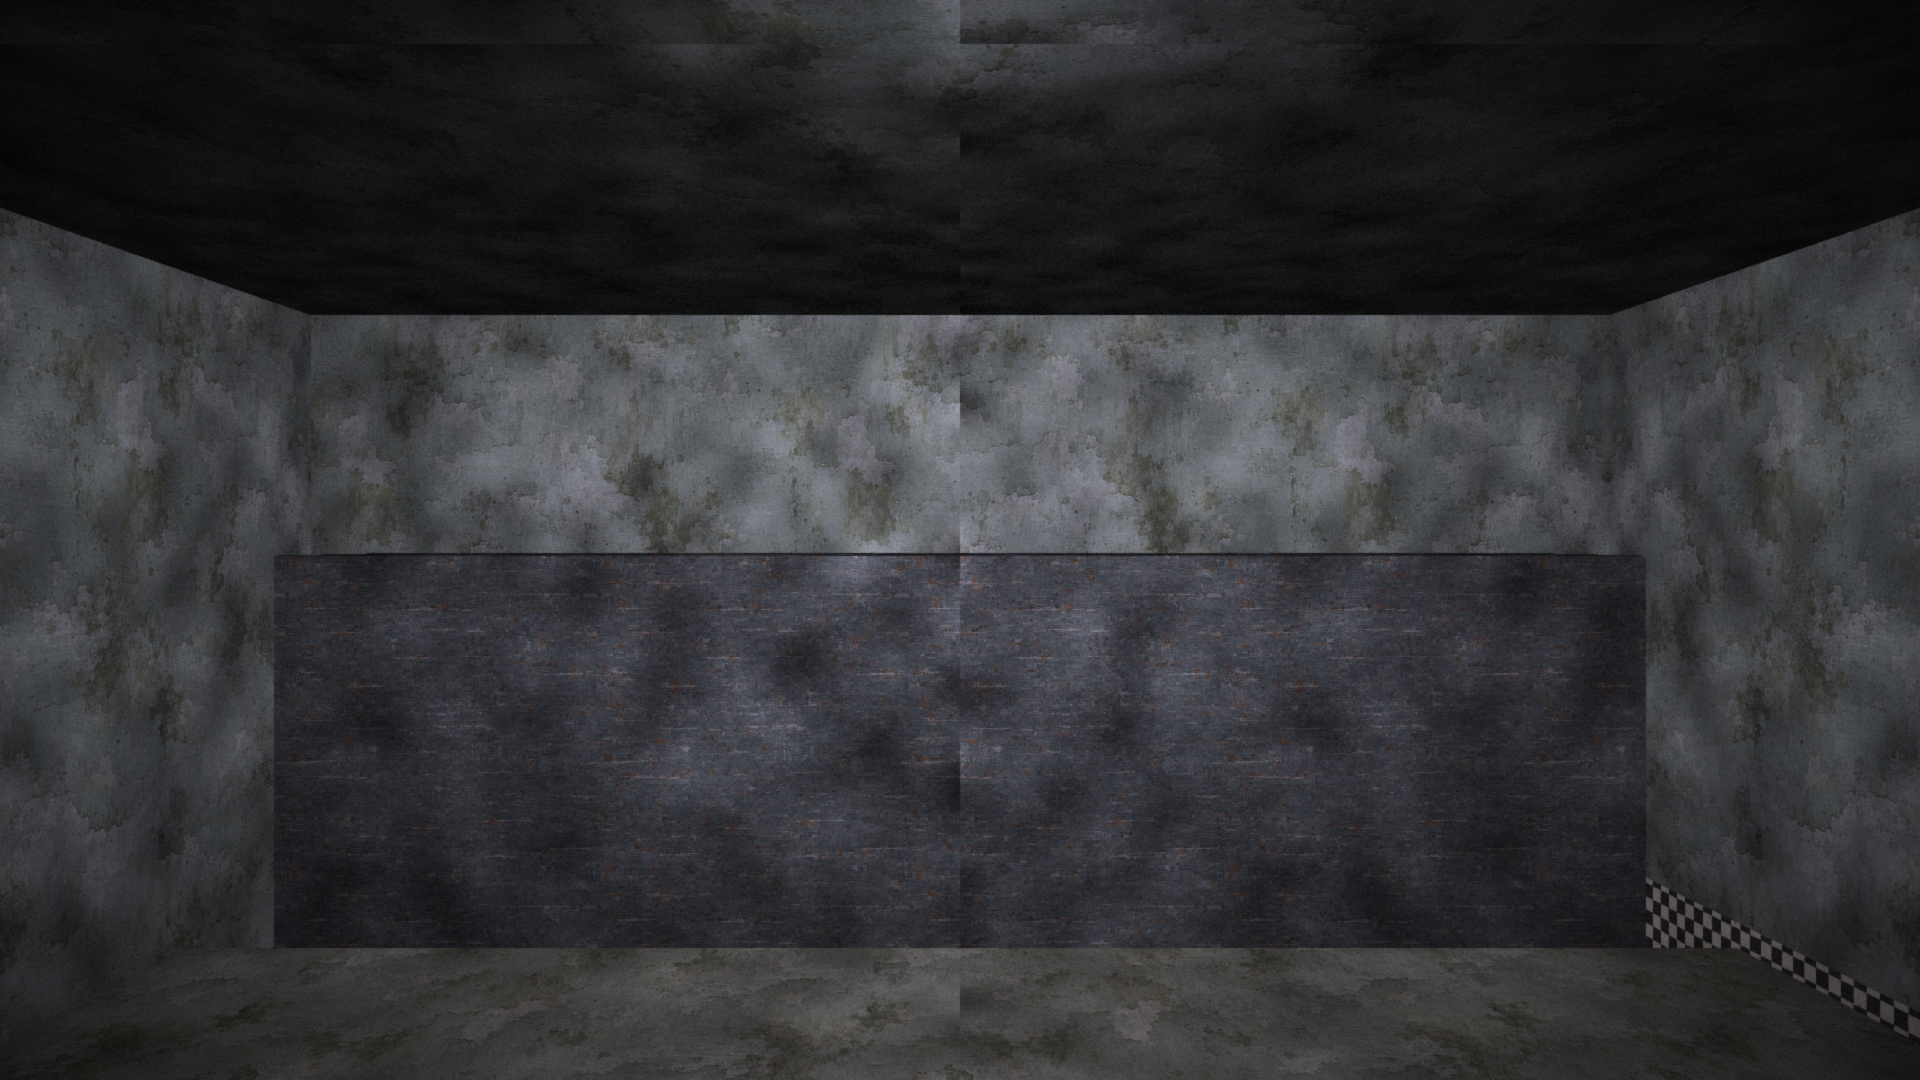
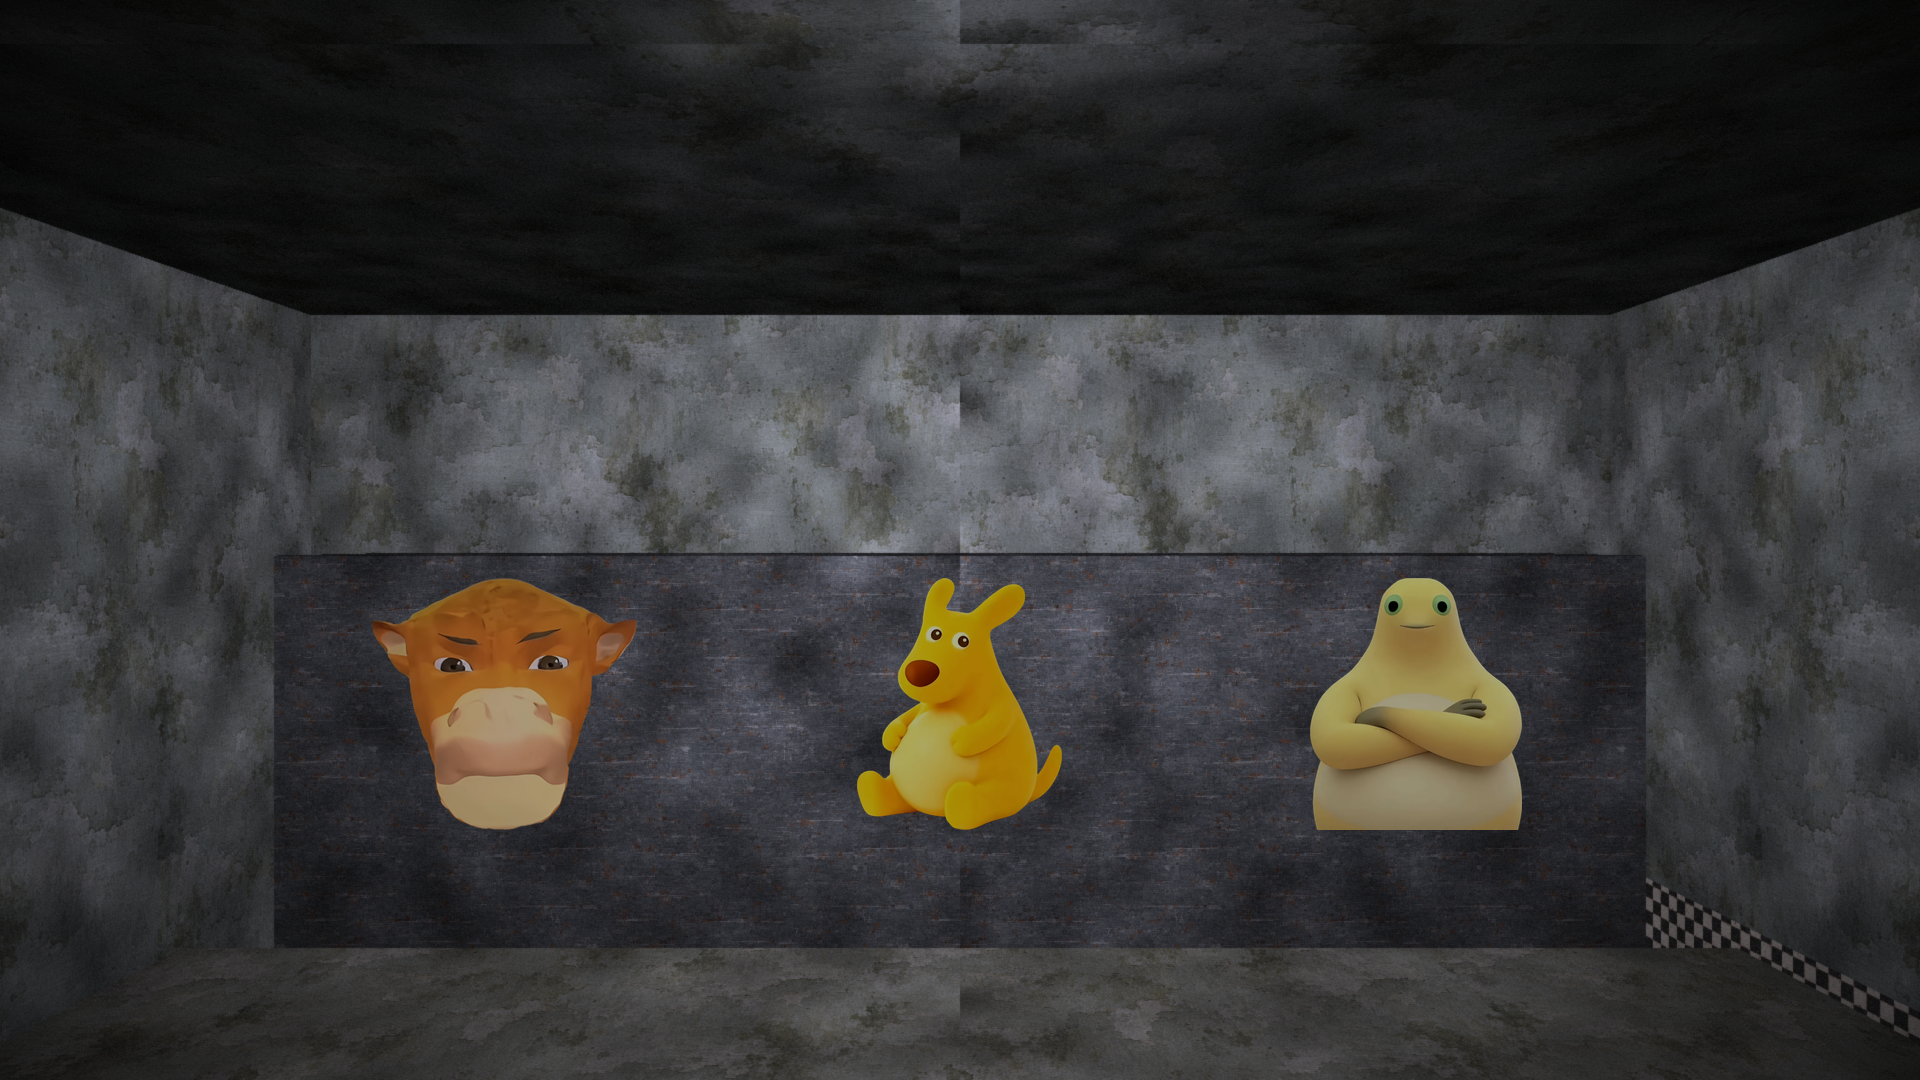
舞台保留敌人待命 + 监控支持同机位多角色 + 房间补内容
绿子：「是有点空。另外没有行动或者进攻失败的敌人会复活在舞台上」，
澄清后是「舞台不要空」—— 舞台本来就该站着玩偶。第一版理解反了（把舞台从路径里删掉），已改回。

- 路径起点恢复 0（1A 舞台）：没出动/被挡回的敌人回舞台待命
  袋鼠 {0,1,5,3,4}、牛来 {0,1,10,6,7}
- 监控角色从单 Image 改成 3 槽位：同一机位可以站多个（舞台上的袋鼠 + 牛来），
  横排摆开（1 个居中 / 2 个 ±130 / 3 个 ±230）。原来单槽位只画第一个
- 「空」的改善：5 后台架子上加三个玩偶头套（立绘贴片）、2B/4B 加柜子和纸箱、
  3 储藏室加纸箱水桶、1B 长桌往房间深处挪、墙上画提亮 0.52 → 0.68

压暗踩坑：试过统一 dark*0.92，1B/7 几乎全黑，已撤销。

Changed region(s): [[0.6562, 0.5194, 0.8125, 0.7944], [0.1875, 0.5194, 0.3438, 0.7639], [0.4375, 0.5194, 0.5625, 0.7639]]

diff --git a/Assets/Scripts/UI/PrototypeScene.cs b/Assets/Scripts/UI/PrototypeScene.cs
@@ -439,7 +439,12 @@ namespace NailongFNAF.UI
         private Image _flashlightGlow;
         private float _flashlightGlowAlpha;
         private Image _monitorOverlay;
-        private Image _monitorCharacter;
+        /// <summary>
+        /// 监控画面里叠的敌人立绘槽位（最多三个）。
+        /// 同一机位可能站着不止一个（比如舞台上的袋鼠 + 牛来），
+        /// 所以用数组横排，而不是单个 Image。
+        /// </summary>
+        private Image[] _monitorCharacters;
         private CanvasGroup _monitorMapGroup;
         private Text _monitorLabel;
         private Image[] _camBoxes;
@@ -1164,7 +1169,24 @@ namespace NailongFNAF.UI
                 _enemySideRight.gameObject.SetActive(false);
             }
 
-            _monitorCharacter.gameObject.SetActive(false);
+            HideMonitorCharacters();
+        }
+
+        /// <summary>把所有监控角色槽位收起来。</summary>
+        private void HideMonitorCharacters()
+        {
+            if (_monitorCharacters == null)
+            {
+                return;
+            }
+
+            foreach (var img in _monitorCharacters)
+            {
+                if (img != null)
+                {
+                    img.gameObject.SetActive(false);
+                }
+            }
         }
 
         /// <summary>
@@ -1320,7 +1342,7 @@ namespace NailongFNAF.UI
                 _monitorOverlay.sprite = _solidSprite;
                 _monitorOverlay.color = Color.black;
                 _monitorLabel.text = CameraName(index) + "    (AUDIO ONLY)";
-                _monitorCharacter.gameObject.SetActive(false);
+                HideMonitorCharacters();
                 UpdateCameraBoxes(index);
                 return;
             }
@@ -1351,33 +1373,36 @@ namespace NailongFNAF.UI
         }
 
         /// <summary>
-        /// 监控画面里叠谁。同一机位最多只会画一个：奶龙优先（它蹲在机位偷电，正对镜头所以用 stare），
-        /// 其次袋鼠、牛来（照 FNAF 1，邦尼/奇卡沿机位路径逐房间推进，在监控里是站姿）。
-        /// **敌人一离开机位就拍不到它了** —— 尤其站到门口后它不再是「蹲机位」的状态，
-        /// 属于门口的威胁，玩家得转头看门灯、而不是在监控里找它。
+        /// 监控画面里叠谁。**同一机位可以站多个**（FNAF 1 的舞台上就有三只），
+        /// 横排摆开；只有一个时居中。
+        ///
+        /// 奶龙的贴图按状态分：偷电态 stare（正对镜头）、进攻态 idle（侧身）。
+        /// 袋鼠 / 牛来照 FNAF 1 沿机位路径推进，在监控里是站姿。
+        /// **敌人站到门口后就拍不到它了** —— 那时它是门口的威胁，得转头看门灯。
         /// </summary>
         private void ApplyMonitorCharacter(GameManager gm)
         {
-            if (_enemyDirector == null)
+            if (_enemyDirector == null || _monitorCharacters == null)
             {
-                _monitorCharacter.gameObject.SetActive(false);
                 return;
             }
 
             int cam = gm.CurrentCameraIndex;
 
-            // 奶龙优先 —— **两个状态用不同贴图**（绿子 2026-10-17 要求）：
-            //   偷电态：stare（正对镜头，它蹲在机位上盯着你偷电）
-            //   进攻态：idle（侧身站着，跟袋鼠/牛来在机位上一样）
+            // 收集这一机位上能拍到的敌人（最多三个槽位）
+            var ids = new EnemyId[_monitorCharacters.Length];
+            var poses = new CharacterPose[_monitorCharacters.Length];
+            int count = 0;
+
             var nailong = _enemyDirector.GetBrain(EnemyId.Nailong) as NailongBrain;
             if (nailong != null && !nailong.IsAttacking
                 && nailong.Stage < nailong.MaxStage
-                && nailong.CameraIndex == cam)
+                && nailong.CameraIndex == cam
+                && count < ids.Length)
             {
-                var pose = nailong.IsApproaching ? CharacterPose.Idle : CharacterPose.Stare;
-                ShowCharacter(_monitorCharacter, EnemyId.Nailong, pose,
-                    MonitorCharacterHeight);
-                return;
+                ids[count] = EnemyId.Nailong;
+                poses[count] = nailong.IsApproaching ? CharacterPose.Idle : CharacterPose.Stare;
+                count++;
             }
 
             // 门类敌人（袋鼠 / 牛来）：停在某个机位时才现形
@@ -1389,16 +1414,34 @@ namespace NailongFNAF.UI
                     continue;
                 }
 
-                if (door.PathCameraIndex == cam)
+                if (door.PathCameraIndex == cam && count < ids.Length)
                 {
-                    ShowCharacter(_monitorCharacter, door.Id, CharacterPose.Idle,
-                        MonitorCharacterHeight);
-                    return;
+                    ids[count] = door.Id;
+                    poses[count] = CharacterPose.Idle;
+                    count++;
                 }
             }
 
-            // 噜噜改走正门了，不再出现在任何机位里
-            _monitorCharacter.gameObject.SetActive(false);
+            // 横排摆开：一个居中，两个左右分开，三个均分
+            for (int i = 0; i < _monitorCharacters.Length; i++)
+            {
+                var img = _monitorCharacters[i];
+
+                if (i >= count)
+                {
+                    img.gameObject.SetActive(false);
+                    continue;
+                }
+
+                ShowCharacter(img, ids[i], poses[i], MonitorCharacterHeight);
+
+                float step = count <= 1 ? 0f : (count == 2 ? 260f : 230f);
+                float offsetX = (i - (count - 1) * 0.5f) * step;
+
+                var rect = img.rectTransform;
+                rect.anchoredPosition = new Vector2(offsetX, 46f);
+                rect.sizeDelta = new Vector2(260f, MonitorCharacterHeight);
+            }
         }
 
         private static string CameraName(int index)
@@ -2119,23 +2162,31 @@ namespace NailongFNAF.UI
                 TextAnchor.MiddleCenter, 46, new Color(0.72f, 0.86f, 0.72f));
             StretchToParent(_monitorLabel.rectTransform);
 
-            // 监控画面里的敌人立绘（奶龙蹲在机位里）
-            var charGo = new GameObject("MonitorCharacter", typeof(RectTransform), typeof(Image));
-            charGo.transform.SetParent(_monitorOverlay.transform, false);
+            // 监控画面里的敌人立绘 —— 三个槽位，同一机位可以站多个
+            _monitorCharacters = new Image[3];
 
-            var charRect = charGo.GetComponent<RectTransform>();
-            charRect.anchorMin = new Vector2(0.5f, 0f);
-            charRect.anchorMax = new Vector2(0.5f, 0f);
-            charRect.pivot = new Vector2(0.5f, 0f);
-            charRect.anchoredPosition = new Vector2(0f, 46f);
-            charRect.sizeDelta = new Vector2(260f, MonitorCharacterHeight);
+            for (int i = 0; i < _monitorCharacters.Length; i++)
+            {
+                var charGo = new GameObject("MonitorCharacter" + i,
+                    typeof(RectTransform), typeof(Image));
+                charGo.transform.SetParent(_monitorOverlay.transform, false);
 
-            _monitorCharacter = charGo.GetComponent<Image>();
-            _monitorCharacter.sprite = _solidSprite;
-            _monitorCharacter.preserveAspect = true;
-            _monitorCharacter.raycastTarget = false;
-            _monitorCharacter.color = Color.white;
-            charGo.SetActive(false);
+                var charRect = charGo.GetComponent<RectTransform>();
+                charRect.anchorMin = new Vector2(0.5f, 0f);
+                charRect.anchorMax = new Vector2(0.5f, 0f);
+                charRect.pivot = new Vector2(0.5f, 0f);
+                charRect.anchoredPosition = new Vector2(0f, 46f);
+                charRect.sizeDelta = new Vector2(260f, MonitorCharacterHeight);
+
+                var img = charGo.GetComponent<Image>();
+                img.sprite = _solidSprite;
+                img.preserveAspect = true;
+                img.raycastTarget = false;
+                img.color = Color.white;
+
+                _monitorCharacters[i] = img;
+                charGo.SetActive(false);
+            }
 
             // 小地图 —— 整张 FNAF 1 官方平面图，只有我们用得到的 3 间可点
             var map = new GameObject("MonitorMap", typeof(RectTransform), typeof(CanvasGroup), typeof(Image));

diff --git a/tools/render_monitor.py b/tools/render_monitor.py
@@ -50,6 +50,7 @@ CABINET_TINT = gpa.CABINET_TINT                          # 金属柜 / 架子
 FRAME_TINT = gpa.FRAME_TINT                              # 镜面 / 亮金属
 DOOR_TINT = np.array([0.26, 0.22, 0.20], np.float32)     # 转角那扇门
 MIRROR_TINT = np.array([0.62, 0.66, 0.74], np.float32)   # 镜子（比墙略亮，别过曝）
+CARTON_TINT = np.array([0.46, 0.36, 0.24], np.float32)   # 纸箱
 
 
 def box(bmin, bmax, default, faces=None, band=False):
@@ -165,15 +166,15 @@ def boxes_1b():
     parts = [
         box((-6.0, 0.0, -5.0), (6.0, 3.2, 5.0),
             ("wall", WALL, 2.4, 0.12), band=True),
-        # 长桌
-        box((-2.6, 0.0, -0.55), (2.6, 0.76, 0.55),
+        # 长桌（往房间深处挪 —— 贴着镜头摆会被透视压扁成一条边）
+        box((-2.6, 0.0, -2.05), (2.6, 0.76, -0.95),
             ("wall", DESK_TOP_TINT, 1.4, 0.10)),
     ]
 
     # 两侧椅子（座 + 靠背），简化的派对椅
-    for i, x in enumerate((-1.8, 0.0, 1.8)):
+    for x in (-1.8, 0.0, 1.8):
         for side in (-1.0, 1.0):
-            z0 = 0.55 if side > 0 else -0.55 - 0.5
+            z0 = -0.95 if side > 0 else -2.55
             parts.append(box((x - 0.24, 0.0, z0), (x + 0.24, 0.45, z0 + 0.5),
                              ("wall", CHAIR_TINT, 1.2, 0.08)))
             zb = z0 + (0.42 if side > 0 else 0.0)
@@ -208,6 +209,12 @@ def boxes_corner(sign=-1):
         # 通往办公室的那扇门（深色门板，贴在尽头墙上）
         box((-0.55, 0.0, -1.50), (0.55, 2.05, -1.45),
             ("metal", DOOR_TINT, 1.4, 0.10)),
+        # 墙角的柜子（别让转角只有一堵空墙）
+        box((-1.45, 0.0, -1.45), (-0.85, 1.30, -0.95),
+            ("metal", CABINET_TINT, 1.0, 0.12)),
+        # 地上的纸箱
+        box((0.85, 0.0, -1.40), (1.40, 0.62, -0.85),
+            ("paper", CARTON_TINT, 1.1, 0.14)),
     ]
 
 
@@ -226,6 +233,12 @@ def boxes_3():
         # 架子
         box((0.30, 0.0, -2.05), (1.25, 1.70, -1.30),
             ("metal", CABINET_TINT, 1.0, 0.14)),
+        # 架子上堆的纸箱
+        box((0.40, 1.70, -1.95), (0.95, 2.10, -1.45),
+            ("paper", CARTON_TINT, 1.1, 0.12)),
+        # 地上的水桶
+        box((-1.20, 0.0, -0.55), (-0.75, 0.50, -0.10),
+            ("metal", CABINET_TINT, 0.7, 0.10)),
     ]
 
 
@@ -364,8 +377,8 @@ def render_shot(name):
     else:
         gpa.DECALS = []
 
-    # 画别比墙亮太多（监控画面里纸不会发白光）
-    gpa.POSTER_GAIN = 0.52
+    # 画别比墙亮太多，但也不能暗到看不见
+    gpa.POSTER_GAIN = 0.68
 
     dirs = gpa.look_rays(cam, yaw)
     proj = lambda pt: gpa.project(pt, cam, yaw)
@@ -376,6 +389,13 @@ def render_shot(name):
 
     # ⚠ 舞台**不放静态角色** —— 监控里的敌人是运行时按位置叠上去的
     # （见 PrototypeScene.ApplyMonitorCharacter）。背景再画一遍就重复了。
+    # 但**后台架子上的玩偶头套是道具**，不是活敌人，可以画进背景。
+    if name == "5":
+        for x, code in ((-1.45, "nailong"), (0.0, "daishu"), (1.45, "niulai")):
+            img = paste_billboard(img, cam, yaw,
+                                  gpa.load_character(code, "stare"),
+                                  x, 0.98, -1.62, 0.80, dim=0.68)
+
     return img
 
 

diff --git a/Assets/Scripts/Gameplay/EnemyDirector.cs b/Assets/Scripts/Gameplay/EnemyDirector.cs
@@ -32,11 +32,14 @@ namespace NailongFNAF.Gameplay
 
         [Header("门类敌人的机位路径（照 FNAF 1 逐房间推进）")]
         [Tooltip("袋鼠（左门，照邦尼）沿路停留的机位下标。走到路径尽头就是左门口。"
-            + "下标照 PrototypeScene.CameraNames：0=1A舞台 1=1B餐厅 5=3储藏室 3=2A西走廊 4=2B西走廊转角…")]
-        [SerializeField] private int[] _daishuPath = { 0, 1, 8, 3, 4 };
+            + "下标照 PrototypeScene.CameraNames：0=1A舞台 1=1B餐厅 5=3储藏室 3=2A西走廊 4=2B西走廊转角。"
+            + "**起点放 0（1A 舞台）是有意的** —— 照 FNAF 1，舞台本来就该站着玩偶；"
+            + "没出动 / 被挡回来的敌人回舞台待命，玩家看 1A 能知道谁还没出发。")]
+        [SerializeField] private int[] _daishuPath = { 0, 1, 5, 3, 4 };
 
         [Tooltip("牛来（右门，照奇卡）沿路停留的机位下标。走到路径尽头就是右门口。"
-            + "下标照 PrototypeScene.CameraNames：0=1A舞台 1=1B餐厅 10=7厕所 6=4A东走廊 7=4B东走廊转角…")]
+            + "下标照 PrototypeScene.CameraNames：0=1A舞台 1=1B餐厅 10=7厕所 6=4A东走廊 7=4B东走廊转角。"
+            + "同样从舞台出发 —— 见上。")]
         [SerializeField] private int[] _niulaiPath = { 0, 1, 10, 6, 7 };
 
         [Tooltip("奶龙（右门，照弗莱迪）沿路停留的机位下标。走到路径尽头就是右门口。"
